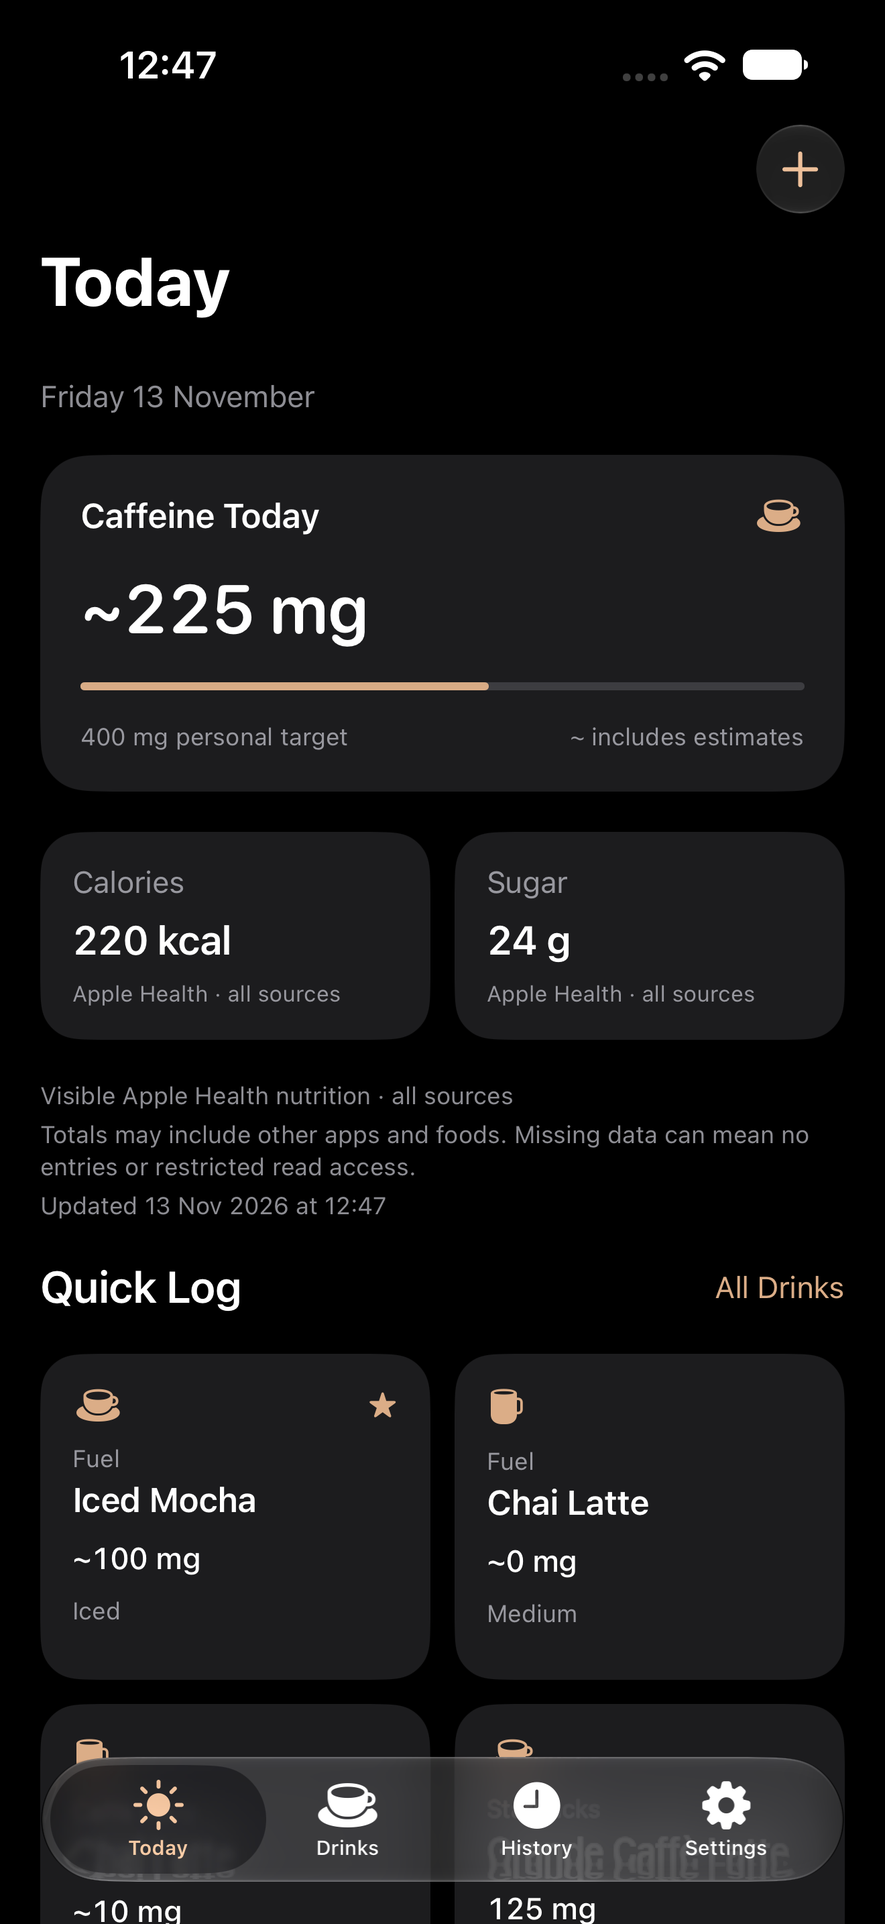
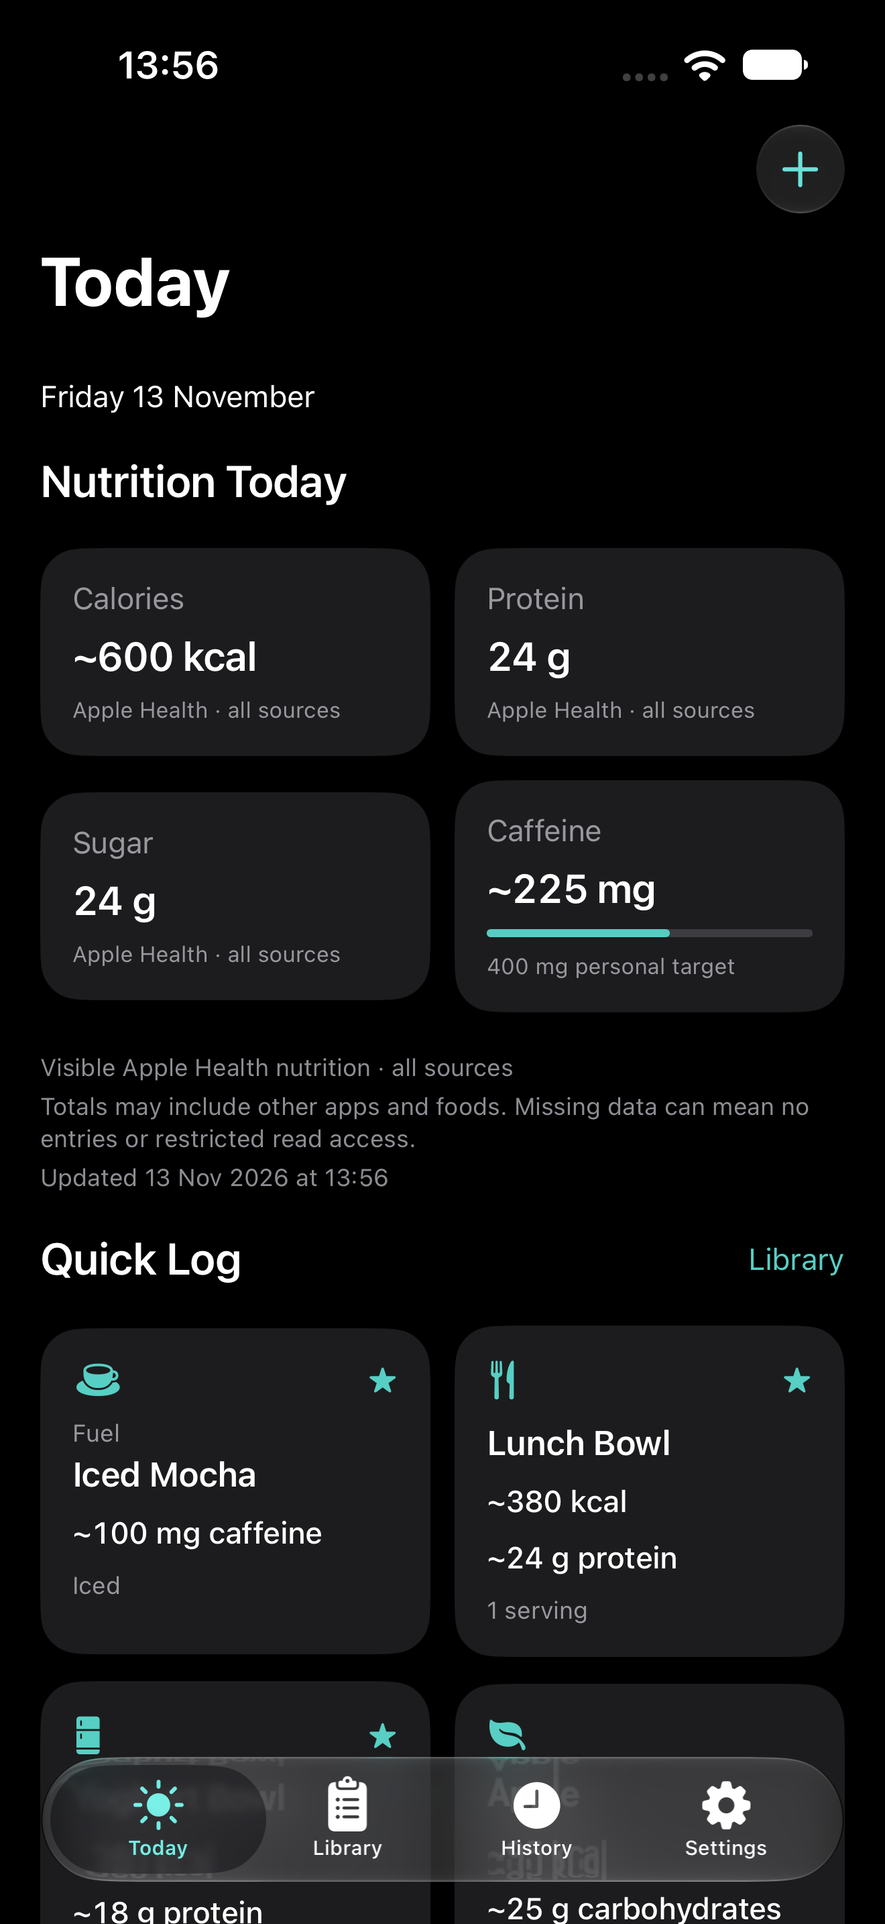
Document general nutrition workflows and local verification
Update the README, data architecture notes and reviewed synthetic-data screenshots for reusable foods and drinks. Record exact local build, test and device commands, the 47 passing tests, actual system Dynamic Type checks and the remaining live Health and spoken VoiceOver validation. Preserve the original app verification as a separate historical record and document compatibility boundaries and diagnostic audit limitations.

diff --git a/docs/ISSUE_2_VERIFICATION.md b/docs/ISSUE_2_VERIFICATION.md
@@ -1,0 +1,98 @@
+# General nutrition theme verification — issue #2
+
+All verification ran locally on Kai’s Mac on 13 November 2026. No GitHub-hosted Actions were triggered or used. Xcode 27.0 (27A266a), the installed iOS 27 SDK, and the existing iOS 27 deployment target were retained.
+
+## Scope and compatibility
+
+The app now uses a neutral plate-and-tally icon, adaptive teal accent, a Library for foods and drinks, balanced nutrition summaries, optional serving details, and app-wide food-and-drink wording. Calories, protein, sugar, and caffeine can be shown independently on Today; the caffeine chart follows its visibility setting.
+
+The `SavedDrink` class, UUID constraint, persisted property names/types, existing category/style raw values, HealthKit metadata keys, and JSON version-1 `drinks` key are unchanged. New food category values are additive. A fixed legacy JSON document, food-category round trips, SwiftData persistence, nil/zero/estimate semantics, historical event grouping, and the original seed marker have regression coverage. No Health sample is migrated or rewritten.
+
+Runtime checking found a deletion bug: the confirmation’s dismissal could clear the selected template before the delete action used it. The action now captures the presented template. The confirmed-log/edit/delete UI test verifies that the template disappears while its original 100 mg Health event remains unchanged.
+
+## Results
+
+- Final combined suite: **47 passed, 0 failed, 0 skipped** (35 unit tests and 12 UI tests), with **0 runtime warnings** in the result summary.
+- Signed Debug build: succeeded; the final app installed and launched on the physical iPhone 17 Pro Max.
+- Signed Release build: succeeded. Code signature verification succeeded with normal macOS trust-store access; the HealthKit entitlement is present. Development fixture/seed markers are absent from the Release executable.
+- The icon renderer produced a 1024 × 1024 opaque PNG. Its native drawing source is retained in `Design/RenderAppIcon.swift`.
+
+## Exact final commands
+
+Console-log redirection is omitted. Every relevant Xcode invocation used isolated DerivedData under `/private/tmp`. The QA Simulator identifier below is task-specific; select a current destination when rerunning after cleanup.
+
+Initial Simulator compile — succeeded:
+
+```sh
+xcodebuild -project Tally.xcodeproj -scheme Tally -destination 'generic/platform=iOS Simulator' -derivedDataPath /private/tmp/tally-issue2-derived-data build CODE_SIGNING_ALLOWED=NO
+```
+
+Final complete suite on the isolated iPhone 17 Pro Max / iOS 27.0 Simulator:
+
+```sh
+xcodebuild -project Tally.xcodeproj -scheme Tally -destination 'platform=iOS Simulator,id=C97666B8-AF04-43C8-A814-B985C11F27F0' -derivedDataPath /private/tmp/tally-issue2-derived-data -resultBundlePath /private/tmp/tally-issue2-complete-tests.xcresult -parallel-testing-enabled NO -test-timeouts-enabled YES -default-test-execution-time-allowance 180 -maximum-test-execution-time-allowance 240 test CODE_SIGNING_ALLOWED=NO
+```
+
+Signed builds — both succeeded:
+
+```sh
+xcodebuild -project Tally.xcodeproj -scheme Tally -destination 'generic/platform=iOS' -derivedDataPath /private/tmp/tally-issue2-device-derived-data -allowProvisioningUpdates build
+xcodebuild -project Tally.xcodeproj -scheme Tally -configuration Release -destination 'generic/platform=iOS' -derivedDataPath /private/tmp/tally-issue2-device-derived-data -allowProvisioningUpdates build
+```
+
+Physical installation and launch — both succeeded. `TALLY_DEVICE_ID` stands for the connected iPhone identifier; the private value is deliberately excluded here:
+
+```sh
+xcrun devicectl device install app --device "$TALLY_DEVICE_ID" /private/tmp/tally-issue2-device-derived-data/Build/Products/Debug-iphoneos/Tally.app
+xcrun devicectl --timeout 20 device process launch --terminate-existing --device "$TALLY_DEVICE_ID" gale-k.Tally
+```
+
+Production configuration and artwork checks:
+
+```sh
+codesign -d --entitlements - --xml /private/tmp/tally-issue2-device-derived-data/Build/Products/Release-iphoneos/Tally.app
+codesign --verify --strict --verbose=2 /private/tmp/tally-issue2-device-derived-data/Build/Products/Release-iphoneos/Tally.app
+plutil -extract NSHealthShareUsageDescription raw -o - /private/tmp/tally-issue2-device-derived-data/Build/Products/Release-iphoneos/Tally.app/Info.plist
+plutil -extract NSHealthUpdateUsageDescription raw -o - /private/tmp/tally-issue2-device-derived-data/Build/Products/Release-iphoneos/Tally.app/Info.plist
+swift -module-cache-path /private/tmp/tally-issue2-module-cache Design/RenderAppIcon.swift
+sips -g pixelWidth -g pixelHeight -g hasAlpha Tally/Assets.xcassets/AppIcon.appiconset/AppIcon.png
+git diff --check
+```
+
+The signing inspection initially produced trust/entitlement warnings inside the restricted shell. Repeating it with normal local trust-store access returned valid signing and the expected HealthKit entitlement; no signing configuration was changed to suppress a warning.
+
+## Development failures and diagnostic limits
+
+The first test destination was the stock iPhone 17 Pro Max running iOS 26.5; Xcode correctly rejected it (exit 70). A separate iOS 27.0 Simulator was then created rather than lowering the app’s deployment target.
+
+Earlier combined runs used the complete-suite command above with result paths `tally-issue2-full-tests.xcresult` and `tally-issue2-final-tests.xcresult`. They exposed the deletion-selection problem, overscrolled lazy-form fields, an unreliable Simulator Command-A interaction, and an assertion that overlooked SwiftUI’s combined accessibility label. The app defect was fixed; test interactions now scroll to the actual target and replace text through the native decimal keyboard. A `tally-issue2-reviewed-tests.xcresult` attempt stopped at a confirmation-closure syntax error, which was corrected before tests continued. These runs are not reported as successful.
+
+A focused diagnostic command ran the three affected cases:
+
+```sh
+xcodebuild -project Tally.xcodeproj -scheme Tally -destination 'platform=iOS Simulator,id=C97666B8-AF04-43C8-A814-B985C11F27F0' -derivedDataPath /private/tmp/tally-issue2-derived-data -resultBundlePath /private/tmp/tally-issue2-focused-tests.xcresult -parallel-testing-enabled NO -only-testing:TallyUITests/TallyUITests/testAccessibilityDescriptionsAndTextClipping -only-testing:TallyUITests/TallyUITests/testConfirmedLogSurvivesTemplateEditAndDeletion -only-testing:TallyUITests/TallyUITests/testFoodWithCaloriesAndProteinCanBeSavedAndLogged test CODE_SIGNING_ALLOWED=NO
+```
+
+The food and historical edit/delete cases passed. The broad accessibility audit failed: it reported non-scaling text that visibly enlarges in the explicit accessibility-size captures, native navigation/control findings, and contrast findings on off-screen text beneath the translucent tab bar. That broad audit was diagnostic, not a passed compliance check. The persistent automated audit now checks sufficient element descriptions on Today, Library, History, Settings, confirmation, and the editor. Actual large-text layouts and both appearances are reviewed separately. The screenshot-confirmed filled-button contrast and date-text contrast were improved. No claim of a clean blanket contrast/Dynamic Type audit or manually verified spoken VoiceOver is made.
+
+## Actual system Dynamic Type follow-up
+
+The initial view-level large-text fixture enlarged the tabs but did not carry its override into modal sheets. Those initial modal captures were rejected as accessibility-size evidence. The isolated Simulator’s system category was set explicitly, exposing an awkward wrap in the optional volume row. Volume and nutrition fields now stack label/input vertically at accessibility sizes. The corrected editor, nutrition inputs, confirmation, and Quick Add action were recaptured and opened; the label and controls are readable without the earlier fragmented wrap. The Debug-only modal fixture now applies its appearance environment at the modal root as well, so future screenshot tests cover the intended size.
+
+Both system-size follow-ups passed, one UI test each. The first run used `tally-issue2-system-text-tests.xcresult`; after the layout correction, the exact command was:
+
+```sh
+xcrun simctl ui C97666B8-AF04-43C8-A814-B985C11F27F0 content_size accessibility-extra-large
+xcodebuild -project Tally.xcodeproj -scheme Tally -destination 'platform=iOS Simulator,id=C97666B8-AF04-43C8-A814-B985C11F27F0' -derivedDataPath /private/tmp/tally-issue2-derived-data -resultBundlePath /private/tmp/tally-issue2-accessibility-layout-tests.xcresult -parallel-testing-enabled NO -only-testing:TallyUITests/TallyUITests/testScreenshotsAccessibilityText test CODE_SIGNING_ALLOWED=NO
+xcrun simctl ui C97666B8-AF04-43C8-A814-B985C11F27F0 content_size large
+```
+
+The full suite and signed Debug/Release builds were then repeated on the final source. The corrected Debug app was installed and launched again on the physical iPhone.
+
+## Runtime screenshots and remaining manual checks
+
+UI tests use an in-memory library and synthetic Health adapter, never real Health samples. Their screenshots cover Today, Library, History, Settings, confirmation, Add Item, Quick Add, food-only history details, empty Today, and permission/query/unavailable states. Light, dark, and accessibility-size-3 captures are exported from the actual test run and opened independently. The two refreshed README screenshots contain synthetic data only.
+
+Full Health permission decisions, exact live sample counts/values in Apple Health, haptic feel, and spoken VoiceOver navigation remain physical-device manual checks. Installation and launch succeeded but do not establish those behaviours. No performance test target exists in the repository; no standalone performance benchmark was claimed. iCloud sync is outside this issue and remains separate work.
+
+Task-specific DerivedData, logs, result bundles, exported diagnostic attachments, module cache, and the isolated QA Simulator are removed after verification. The icon source and README images are intentional project/documentation assets.

diff --git a/README.md b/README.md
@@ -1,13 +1,13 @@
 # Tally
 
-A native, caffeine-first iPhone app for keeping your usual drinks close and logging their known nutrition to Apple Health.
+A native iPhone nutrition utility for saving your usual foods and drinks and logging their known nutrition to Apple Health.
 
 ## What it does
 
-- Save reusable drinks with favourites, brands, serving sizes, notes, and optional nutrition.
-- Find a usual drink with search, category filters, five sort orders, and ranked Quick Log cards.
-- Review a drink and its time before logging, or use Quick Add for a one-off drink.
-- Track caffeine first, with optional calorie and sugar cards, recent Health history, and a seven-day chart.
+- Save reusable foods and drinks with favourites, brands, serving sizes, notes, and optional nutrition.
+- Find a saved item with search, category filters, five sort orders, and ranked Quick Log cards.
+- Review an item and its time before logging, or use Quick Add for a one-off entry.
+- Choose calorie, protein, sugar, and caffeine summaries on Today, with recent Health history and an optional seven-day caffeine chart.
 - Export and import the local template library as JSON.
 
 Supported nutrition: caffeine (mg), energy (kcal), sugar, carbohydrates, protein, total fat, saturated fat, and fibre (g). **Blank means unknown; zero is a real value.** Tap `~` beside a nutrition field to mark it as estimated.
@@ -24,14 +24,22 @@ Local Simulator screenshots with synthetic test data, not personal Health histor
 
 1. Open `Tally.xcodeproj` in Xcode 27.0 or later. The project uses the installed iOS 27 SDK and requires iOS 27.0 or later.
 2. Select your Apple development team if necessary. HealthKit and its read/write purpose descriptions are already configured.
-3. Build and run on an iPhone. Add a drink in **Drinks**, then tap it to review its nutrition and log time.
-4. Choose Health permissions when requested. Logging requires write access for every known nutrient in that drink; a denied field fails the entire event without saving a partial drink.
+3. Build and run on an iPhone. Add a food or drink in **Library**, then tap it to review its nutrition and log time.
+4. Choose Health permissions when requested. Logging requires write access for every known nutrient in that entry; a denied field fails the entire event without saving partial nutrition.
 
-In Debug builds, **Settings → Development → Add Development Example Drinks** inserts the seven supplied presets once. Unknown nutrition stays blank. Presets are never inserted automatically in a normal launch and are compiled out of Release builds.
+In Debug builds, **Settings → Development → Add Development Examples** inserts six synthetic food and drink templates once. These are demonstration values, not a nutrition reference. The original once-only marker is retained, so users who previously added examples do not receive another batch. Unknown nutrition stays blank. Presets are never inserted automatically in a normal launch and are compiled out of Release builds.
+
+## Food and drink templates
+
+A name is the only required template field. Serving size is free text (for example, “1 bowl” or “330 ml”); liquid volume and serving style are optional. New items start with no specified style. Food categories sit alongside the existing coffee, tea, pod, and bottled-drink options.
+
+Calories, protein, sugar, and caffeine are immediately accessible in the editor. Carbohydrates, fats, and fibre are under **More Nutrition**. Cards show the known values that best describe each item, so a protein-only food never needs a caffeine placeholder. Configure the Today cards in **Settings → Nutrition on Today**. Hiding caffeine also hides its weekly chart; the personal tracking target remains available in Settings.
+
+Existing libraries and version-1 JSON exports continue to work. The internal `SavedDrink` type and the JSON `drinks` key retain their original names to preserve compatibility; exported files are now named **Tally Library**. Existing logged drink names and Apple Health metadata remain unchanged.
 
 ## Data and privacy
 
-Reusable templates live only in this device’s SwiftData store. Actual consumption is saved as independent HealthKit samples and queried from Apple Health. Editing or deleting a template never changes historical samples.
+Reusable food and drink templates live only in this device’s SwiftData store. Actual consumption is saved as independent HealthKit samples and queried from Apple Health. Editing or deleting a template never changes historical samples.
 
 Today’s totals and history show **visible Apple Health nutrition from all sources**, including other apps and foods. They are not presented as drinks-only totals. Empty results cannot establish whether read permission was denied. Limited-history access is respected. Pull to refresh, or return to Tally after changing data or permissions in Health.
 
@@ -39,10 +47,12 @@ The default 400 mg caffeine target is a personal tracking preference, not a medi
 
 Tally contains no networking, backend, accounts, ads, analytics, or cloud template syncing. Apple Health’s own system-managed sync and backup settings are controlled separately by the user. A JSON export is an explicit user-directed Files action and contains templates only, excluding consumption dates, usage counts, and Health history. Imports add missing UUIDs and keep existing templates unchanged.
 
-See [the data and architecture notes](docs/DATA_AND_ARCHITECTURE.md) for event grouping, save boundaries, and the JSON contract, and [local verification](docs/VERIFICATION.md) for commands and manual Health checks.
+See [the data and architecture notes](docs/DATA_AND_ARCHITECTURE.md) for event grouping, save boundaries, and the JSON contract, and [local verification](docs/VERIFICATION.md) for the initial app checks. The [general nutrition verification](docs/ISSUE_2_VERIFICATION.md) records the latest commands, results, and remaining manual Health/VoiceOver checks.
 
 ## Development
 
 Swift 6, SwiftUI, SwiftData, HealthKit, and Swift Charts. Apple frameworks only; there are no third-party package dependencies.
 
 Run all verification locally with isolated DerivedData under `/private/tmp`. No GitHub Actions workflow is configured. UI tests use an in-memory library and a synthetic Health adapter, never the real Health store.
+
+The neutral plate-and-tally icon has reproducible native drawing source in [Design/RenderAppIcon.swift](Design/RenderAppIcon.swift).

diff --git a/docs/DATA_AND_ARCHITECTURE.md b/docs/DATA_AND_ARCHITECTURE.md
@@ -2,17 +2,25 @@
 
 ## Ownership
 
-`SavedDrink` is the only SwiftData model. It stores template details, optional nutrient amounts, per-nutrient estimate markers, favourites, and convenience usage statistics. The single local `ModelContainer` explicitly disables CloudKit. Editors use a `DrinkDraft` snapshot and commit through `DrinkLibrary`; saves surface errors and roll back failed local changes.
+`SavedDrink` is the only SwiftData model; its legacy name and persisted properties are retained for compatibility, and it now represents both foods and drinks. It stores template details, optional nutrient amounts, per-nutrient estimate markers, favourites, and convenience usage statistics. The single local `ModelContainer` explicitly disables CloudKit. Editors use a `DrinkDraft` snapshot and commit through `DrinkLibrary`; saves surface errors and roll back failed local changes.
 
 `NutritionValues` and `Nutrient` centralise optional semantics, display, units, and input validation. User-entered nutrition must be finite and nonnegative. Typing-error bounds are 10,000 mg caffeine, 50,000 kcal, and 10,000 g for each other nutrient; these are input constraints, not health guidance. The optional volume must be greater than zero and at most 100,000 ml.
 
 `NutritionStore` abstracts Health operations. `HealthKitStore` is the system adapter, while `HealthKitManager` coordinates transient query results and saving state. The views receive that manager through the SwiftUI environment. Health history is never persisted as a second database.
 
+## General nutrition presentation
+
+Category raw values are additive: meal, snack, fruit/vegetables, and dairy/alternatives join the existing beverage values. No stored field or JSON key is renamed. New templates default to category `other` and serving style `other`; the latter displays as “Not specified”, so food never requires a hot/iced style or liquid volume. Existing coffee/hot and other selections are retained when editing.
+
+`Nutrient.formOrder` defines the balanced editor order. `NutritionValues.displayNutrients`, `summaryNutrients`, and `summaryText` select only known amounts for cards and history, retaining zeroes and estimate markers. Caffeine-only drinks still display their caffeine; protein-only and other food entries receive meaningful summaries without a made-up caffeine value.
+
+Today uses equal-weight calorie/protein/sugar/caffeine cards. The original `showCalories`, `showSugar`, and personal-target preference keys remain; independent `showProtein` and `showCaffeine` settings control the new presentation. The caffeine chart follows its visibility setting. These are presentation preferences only and do not alter Health permissions or supported nutrients.
+
 ## Saving a consumption event
 
 Confirmation creates an independent `ConsumptionDraft`, with one UUID and one timestamp. Only present values become `HKQuantitySample`s. Caffeine uses `gramUnit(with: .milli)`, energy uses `kilocalorie()`, and other supported nutrients use `gram()`.
 
-The adapter checks Health availability and exposed write authorization for every present nutrient. It saves the complete sample array in one call. The installed SDK documents that if any object cannot be saved, none of that array is saved. This avoids silently logging only part of a drink when permissions are incomplete.
+The adapter checks Health availability and exposed write authorization for every present nutrient. It saves the complete sample array in one call. The installed SDK documents that if any object cannot be saved, none of that array is saved. This avoids silently logging only part of an entry when permissions are incomplete.
 
 Samples use `HKMetadataKeyFoodType` and `HKMetadataKeyWasUserEntered`, plus reverse-DNS custom keys for event ID, brand, size, and that sample’s estimate flag. No local template relationship is required to read the historical event later.
 
@@ -30,6 +38,8 @@ Only samples whose source bundle matches Tally may be grouped by Tally event met
 
 The dashboard refreshes after logging, when returning to the foreground, and on pull-to-refresh. Refresh generations prevent a stale overlapping response from replacing a newer response. Query failures remain visible alongside any previously refreshed data and its timestamp.
 
+The event-name fallback is now “Nutrition entry” when no food-type metadata is present. Existing names from Health are used verbatim, including historical drinks. Metadata keys, bundle identity, and grouping rules are unchanged.
+
 ## Library JSON, version 1
 
 The root object has `version: 1` and `drinks: [SavedDrinkRecord]`. Records include identity, template details, nutrition and estimate flags, favourites, and creation/update timestamps. Dates use ISO 8601. There are no Health samples, consumption timestamps, or usage counts in the export. Imported templates start with a zero usage count and no last-logged date.
@@ -38,7 +48,7 @@ Import validates the complete document before insertion. Duplicate IDs within a 
 
 ## Development fixtures
 
-`DevelopmentData.swift` contains only the seven requested Debug presets. The persistent once-only marker is set after a successful batch save. Normal app launches do not auto-seed.
+`DevelopmentData.swift` contains only six synthetic food and drink Debug presets; demonstration amounts are not a nutrition reference. The original `developmentPresetsSeeded.v1` marker is retained, so upgrades never insert a second batch. The persistent once-only marker is set after a successful batch save. Normal app launches do not auto-seed.
 
 `UITestFixtures.swift` is Debug-only. `--ui-testing` selects an in-memory SwiftData store and `FixtureNutritionStore`. Additional arguments select seeded templates, synthetic history, dark appearance, accessibility text sizes, and permission/query failure states. These test arguments and synthetic health samples do not exist in Release behavior.
 

diff --git a/docs/VERIFICATION.md b/docs/VERIFICATION.md
@@ -1,4 +1,6 @@
-# Local verification
+# Initial app verification
+
+For the later general nutrition theme and compatibility checks, see [issue #2 verification](ISSUE_2_VERIFICATION.md). The results below record the original app implementation.
 
 Verification took place on Kai’s Mac on 13 November 2026. No GitHub-hosted Actions were triggered or used. Build products, logs, result bundles, SDK probes, and the isolated QA Simulator are task-local artifacts and are removed after the recorded checks. The two README screenshots are intentional documentation assets and contain synthetic data only.
 
